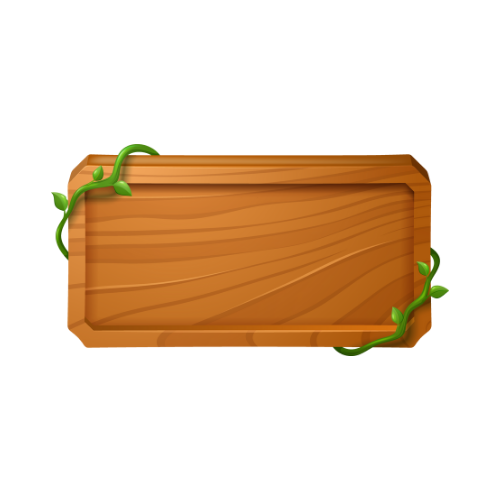
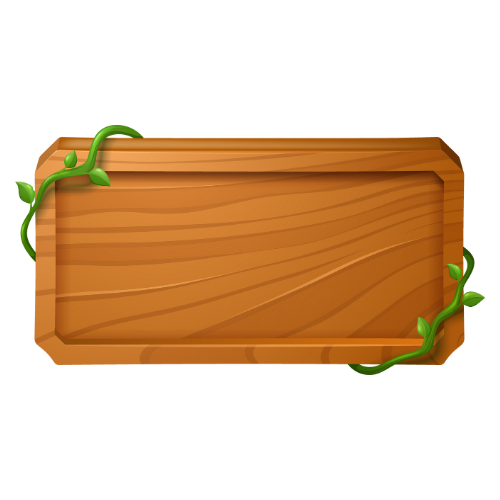
halaman-daftar-bagian-data-diri

diff --git a/menu/daftar/style.css b/menu/daftar/style.css
@@ -16,23 +16,36 @@ body {
   display: flex;
   justify-content: center;
   align-items: center;
-  /* background-color: black; */
+}
+.container {
+  width: 100%;
+  height: 100%;
+  overflow: hidden;
+}
+form{
+  margin-top: 300px;
+  display: flex;
+  flex-direction: column;
+  align-items: center;
+  gap: 300px;
+  transform: translateY(-1000px);
 }
 .wrap-peran {
   background-image: url(../../assets/image/papan-menu.png);
-  width: 400px;
+  width: 500px;
   height: 400px;
   display: flex;
   justify-content: center;
   align-items: center;
   background-repeat: no-repeat;
   background-position: center;
+  overflow: hidden;
 }
 .wrap-peran input {
   display: none;
 }
 .wrap-peran label img {
-  width: 200px;
+  width: 230px;
 }
 .wrap-peran label:nth-child(2) {
   margin-top: 10px;
@@ -59,6 +72,44 @@ body {
   }
 }
 
+.wrap-input-data{
+  background-image: url(../../assets/image/papan-input-mhs.png);
+  width: 500px;
+  height: 1000px;
+  display: flex;
+  flex-direction: column;
+  align-items: center;
+  /* justify-content: center; */
+  background-repeat: no-repeat;
+  background-position: center;
+  background-size: cover;
+  /* background-color: blue; */
+  gap: 85px;
+}
+.wrap-input-data input{
+  border-radius: 50px;
+  padding: 20px;
+  width: 350px;
+  font-size: 30px;
+  background-color: #a6672c;
+  border: 7px solid #f5ca95;
+  box-shadow: inset 5px 5px 5px #684524;
+  color: #f5d38e;
+  text-shadow:
+    1px 0 #f5d38e,
+    -1px 0 #f5d38e,
+    0 1px #f5d38e,
+    0 -1px #f5d38e;
+}
+.wrap-input-data input:focus{
+  outline: none;
+}
+.wrap-input-data input:first-child{
+  margin-top: 305px;
+}
+.wrap-input-data img{
+  width: 250px;
+}
 @keyframes onclick {
   to {
     transform: translateY(-20px) scale(1.2);

diff --git a/menu/style.css b/menu/style.css
@@ -17,26 +17,37 @@ body {
   justify-content: center;
   align-items: center;
 }
-
 .container {
-  background-image: url(../assets/image/papan-menu.png);
-  width: 400px;
-  height: 400px;
+  width: 100%;
+  height: 100%;
   display: flex;
   justify-content: center;
   align-items: center;
-  background-repeat: no-repeat;
-  background-position: center;
 }
+
+.wrap {
+    background-image: url(../assets/image/papan-menu.png);
+    width: 500px;
+    height: 400px;
+    display: flex;
+    justify-content: center;
+    align-items: center;
+    background-repeat: no-repeat;
+    background-position: center;
+    overflow: hidden;
+}
+.wrap a img{
+    /* background-color: blue; */
+    width: 250px;
+}
+
 .container a:first-child{
     margin-top: 10px;
+    margin-left: 15px;
     animation: slideDaftar 1s forwards;
 }
 .container a:last-child{
     animation: slideMasuk 1s forwards;
-}
-.container a img{
-    width: 190px;
 }
 
 @keyframes slideDaftar {
@@ -59,4 +70,4 @@ body {
     to{
         transform: translateY(-20px) scale(1.2);
     }
-}
+} 

diff --git a/db.php b/db.php
@@ -9,9 +9,115 @@ $database = 'railway';
 
 $connect = mysqli_connect($host, $user, $password, $database, $port);
 
-if (!$connect){
-    die('Koneksi Error:'. mysqli_connect_error());
+if (!$connect) {
+    die('Koneksi Error:' . mysqli_connect_error());
 } else {
     echo "Koneksi berhasil";
 }
+
+
+$tabelRoom = "CREATE TABLE classroom(
+id_room VARCHAR(20) PRIMARY KEY,
+nama_room VARCHAR(50),
+tgl_buat VARCHAR(30),
+id_dosen VARCHAR(20) NULL,
+FOREIGN KEY (id_dosen) REFERENCES dosen(id_dosen)
+ON DELETE SET NULL ON UPDATE CASCADE 
+)";
+
+$tabelDetailRoom = "CREATE TABLE detail_room(
+id_detail_room VARCHAR(20) PRIMARY KEY,
+id_room VARCHAR(20) NULL,
+id_mhs VARCHAR(20) NULL,
+total_skor DECIMAL(3,2),
+FOREIGN KEY (id_room) REFERENCES classroom(id_room)
+ON DELETE SET NULL ON UPDATE CASCADE,
+FOREIGN KEY (id_mhs) REFERENCES mahasiswa(id_mhs)
+ON DELETE SET NULL ON UPDATE CASCADE 
+)";
+
+$tabelDetailLevel = "CREATE TABLE detail_level(
+id_detail_level VARCHAR(20) PRIMARY KEY,
+id_room VARCHAR(20) NULL,
+id_level VARCHAR(20) NULL,
+FOREIGN KEY (id_room) REFERENCES classroom(id_room)
+ON DELETE SET NULL ON UPDATE CASCADE,
+FOREIGN KEY (id_level) REFERENCES level(id_level)
+ON DELETE SET NULL ON UPDATE CASCADE 
+)";
+
+$tabelLevel = "CREATE TABLE level(
+id_level VARCHAR(20) PRIMARY KEY,
+nama_level VARCHAR(50)
+)";
+
+$tabelSoal = "CREATE TABLE soal(
+id_soal VARCHAR(20) PRIMARY KEY,
+id_level VARCHAR(20) NULL,
+soal_img VARCHAR(255) NULL,
+soal TEXT NULL,
+opsi_1 VARCHAR(255),
+opsi_2 VARCHAR(255),
+opsi_3 VARCHAR(255),
+opsi_4 VARCHAR(255),
+jawaban VARCHAR(20),
+FOREIGN KEY (id_level) REFERENCES level(id_level)
+ON DELETE SET NULL ON UPDATE CASCADE
+)";
+
+$tabelSkorLevel = "CREATE TABLE skor_level(
+id_skor VARCHAR(20) PRIMARY KEY,
+id_detail_level VARCHAR(20) NULL,
+id_detail_room VARCHAR(20) NULL,
+skor_mhs DECIMAL(3,2),
+FOREIGN KEY (id_detail_level) REFERENCES detail_level(id_detail_level)
+ON DELETE SET NULL ON UPDATE CASCADE,
+FOREIGN KEY (id_detail_room) REFERENCES detail_room(id_detail_room)
+ON DELETE SET NULL ON UPDATE CASCADE
+)";
+
+
+$tabelJawaban = "CREATE TABLE jawaban_mhs(
+id_jawaban VARCHAR(20) PRIMARY KEY,
+id_detail_room VARCHAR(20) NULL,
+id_soal VARCHAR(20),
+jawaban VARCHAR(20),
+benar BOOLEAN,
+FOREIGN KEY (id_detail_room) REFERENCES detail_room(id_detail_room)
+ON DELETE SET NULL ON UPDATE CASCADE,
+FOREIGN KEY (id_soal) REFERENCES soal(id_soal)
+ON DELETE SET NULL ON UPDATE CASCADE
+)";
+
+mysqli_query($connect, $tabelSkorLevel);
+mysqli_query($connect, $tabelJawaban);
+
+// $test = mysqli_query($connect, "DROP TABLE test1");
+
+function generateID()
+{
+    $characters = 'abcdefghijklmnopqrstuvwxyzABCDEFGHIJKLMNOPQRSTUVWXYZ0123456789';
+    $idGenerate = '';
+
+    for ($i = 0; $i < 8; $i++) {
+        $index = random_int(0, strlen($characters) - 1);
+        $idGenerate .= $characters[$index];
+    }
+
+    return $idGenerate;
+}
+
+function generateUsername($nama)
+{
+    $huruf = strtolower(substr($nama, 0, 4));
+    $angka = rand(10, 99);
+    $username = $huruf . $angka;
+
+    return $username;
+}
+
+$id_user = generateID();
+$username = generateUsername('Rizka');
+// $query = "INSERT INTO users (id_user, username, password, peran) VALUES ('$id_user', '$username', '1234', 'Mahasiswa')";
+
 ?>

diff --git a/menu/daftar/index.php b/menu/daftar/index.php
@@ -9,21 +9,26 @@
 </head>
 
 <body>
-  <form action="POST">
-    <div class="wrap-peran">
-      <input type="radio" name="peran" id="mhs" value="mahasiswa">
-      <label for="mhs"><img src="../../assets/image/mhs-btn.png" alt=""></label>
-      <input type="radio" name="peran" id="dosen" value="dosen">
-      <label for="dosen"><img src="../../assets/image/dosen-btn.png" alt=""></label>
-    </div>
 
-    <div class="wrap-input-data" id="mahasiswa">
-        <input type="text" name="nama_mhs" id="nama_mhs">
-        <input type="text" name="nim" id="nim">
-        <input type="text" name="univ" id="univ">
+  <div action="POST" class="container">
+    <form action="">
+      <div class="wrap-peran">
+        <input type="radio" name="peran" id="mhs" value="mahasiswa">
+        <label for="mhs"><img src="../../assets/image/mhs-btn.png" alt=""></label>
+        <input type="radio" name="peran" id="dosen" value="dosen">
+        <label for="dosen"><img src="../../assets/image/dosen-btn.png" alt=""></label>
       </div>
-    </div>
-  </form>
+  
+      <div class="wrap-input-data" id="mahasiswa">
+          <input type="text" name="nama_mhs" id="nama_mhs">
+          <input type="text" name="nim" id="nim">
+          <input type="text" name="univ" id="univ">
+          <div class="btn"><img src="../../assets/image/btn-lanjut.png" alt=""></div>
+        </div>
+      </div>
+
+    </form>
+  </d>
 
   <!--<script>
       const link = document.querySelectorAll(".container a");

diff --git a/menu/index.php b/menu/index.php
@@ -1,19 +1,23 @@
 <!DOCTYPE html>
 <html lang="en">
-  <head>
-    <meta charset="UTF-8" />
-    <meta name="viewport" content="width=device-width, initial-scale=1.0" />
-    <title>Menu</title>
-    <link rel="stylesheet" href="./style.css" />
-  </head>
-  <body>
-    <div class="container">
+
+<head>
+  <meta charset="UTF-8" />
+  <meta name="viewport" content="width=device-width, initial-scale=1.0" />
+  <title>Menu</title>
+  <link rel="stylesheet" href="./style.css" />
+</head>
+
+<body>
+  <div class="container">
+    <div class="wrap">
       <a href="./daftar/"><img src="../assets/image/daftar-btn.png" alt="" /></a>
       <a href="./masuk/"><img src="../assets/image/login-btn.png" alt="" /></a>
     </div>
+  </div>
 
     <script>
-      const link = document.querySelectorAll(".container a");
+      const link = document.querySelectorAll(".wrap a");
 
       link.forEach(l => {
           l.addEventListener("click", (event) => {
@@ -27,5 +31,6 @@
 
       })
     </script>
-  </body>
+</body>
+
 </html>
